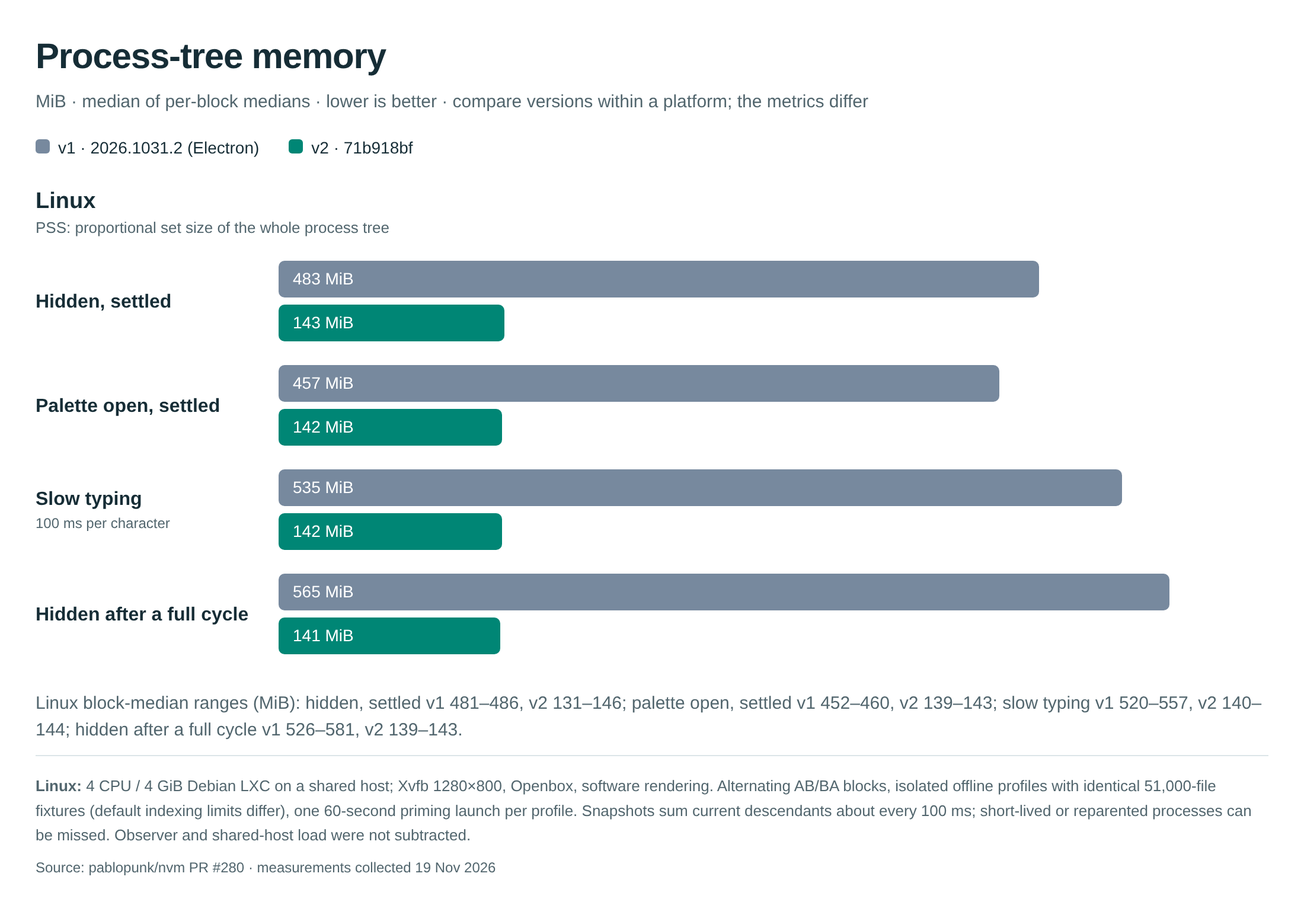
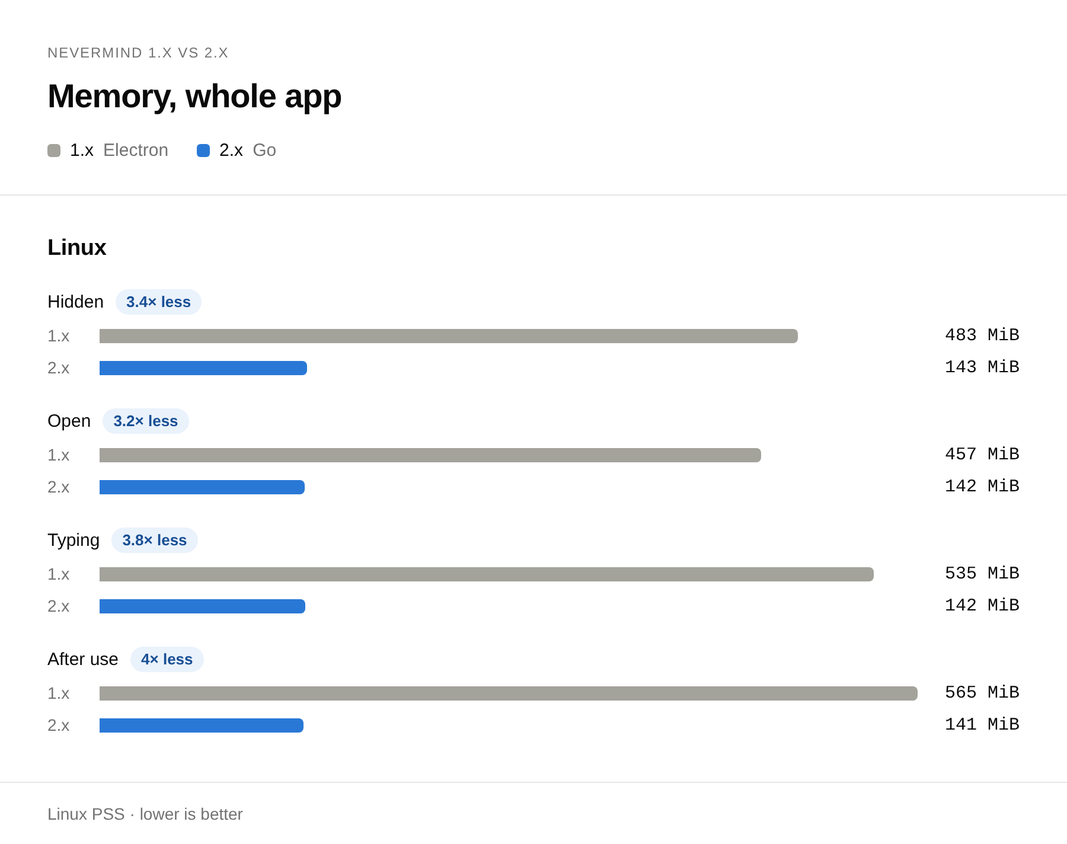
Draw the November 19 benchmarks as simple bar charts
Each action and memory phase is now a pair of thin bars, 1.x grey and
2.x blue, with one median value per bar and a "N× faster" or "N× less"
tag where 2.x clearly wins, laid out after mygo.run/benchmarks. Platforms
sit side by side with a scale per panel. Intervals, p95, attempt counts
and run caveats move out of the images into methodology.md and the HTML
hover text.

diff --git a/src/native/docs/comparison/benchmarks-2026-11-19/responsiveness.html b/src/native/docs/comparison/benchmarks-2026-11-19/responsiveness.html
@@ -1,1 +1,1 @@
-<!doctype html><html><head><meta charset="utf-8"><title>Interaction responsiveness</title><style>body{margin:0;background:#fff;color:#162d36;font:16px Arial,sans-serif}*{box-sizing:border-box}main{padding:30px}h1{font-size:30px;margin:0 0 8px;letter-spacing:-.6px}p{color:#52666e;line-height:1.5;margin:10px 0}.sub{font-size:15px}.legend{display:flex;gap:25px;margin:20px 0;font-size:14px}.dot{display:inline-block;width:12px;height:12px;border-radius:3px;margin-right:7px}.old{background:#77899e}.new{background:#008675}.cols{display:flex;gap:28px}.col{flex:1;min-width:0}.col h2{font-size:19px;margin:6px 0 4px}.col .metric{font-size:13px;color:#52666e;margin-bottom:6px}.row{display:grid;grid-template-columns:190px 1fr;gap:15px;margin:20px 0;align-items:center}.label{font-weight:bold;font-size:16px}.bar{height:31px;border-radius:5px;line-height:31px;color:white;padding-left:12px;min-width:115px;font-size:14px;white-space:nowrap}.bar.new{margin-top:6px}.foot{font-size:13px;line-height:1.6;border-top:1px solid #dce5e8;padding-top:15px}.range{color:#52666e;font-size:12px;font-weight:normal;display:block;margin-top:5px}.source{font-size:12px;color:#52666e}.timing{padding:16px 0;border-top:1px solid #dce5e8}.timing h2{font-size:19px;margin:0 0 12px}.pair{display:flex;gap:18px}.plat{flex:1;min-width:0}.plat h3{font-size:13px;color:#52666e;margin:0 0 8px;text-transform:uppercase;letter-spacing:.6px}.boxes{display:flex;gap:12px}.box{flex:1;border-radius:10px;background:#f1f5f6;padding:15px}.num{font-size:27px;font-weight:bold;margin:6px 0}.bounds{font-size:13px;color:#52666e}.oldtext{color:#61758c}.newtext{color:#008675}.na{font-size:15px;color:#52666e;margin:12px 0}</style></head><body><main><h1>Interaction responsiveness</h1><p class="sub">Measured attempts per version: Linux 30 across 10 alternating process blocks</p><div class="legend"><span><i class="dot old"></i>v1 · 2026.1031.2 (Electron)</span><span><i class="dot new"></i>v2 · 71b918bf</span></div><section class="timing"><h2>Type “settings” → stable result list</h2><div class="pair"><div class="plat"><div class="boxes"><div class="box"><b>v1</b><div class="num oldtext">90–102 ms</div><div class="bounds">median interval · p95 ≤112 ms<br>30/30 attempts succeeded</div></div><div class="box"><b>v2</b><div class="num newtext">20–32 ms</div><div class="bounds">median interval · p95 ≤32 ms<br>30/30 attempts succeeded</div></div></div></div></div></section><section class="timing"><h2>Clear query → stable root list</h2><div class="pair"><div class="plat"><div class="boxes"><div class="box"><b>v1</b><div class="num oldtext">80–92 ms</div><div class="bounds">median interval · p95 ≤104 ms<br>30/30 attempts succeeded</div></div><div class="box"><b>v2</b><div class="num newtext">50–62 ms</div><div class="bounds">median interval · p95 ≤62 ms<br>30/30 attempts succeeded</div></div></div></div></div></section><section class="timing"><h2>Down arrow → next row selected</h2><div class="pair"><div class="plat"><div class="boxes"><div class="box"><b>v1</b><div class="num oldtext">0–12 ms</div><div class="bounds">median interval · p95 ≤22 ms<br>30/30 attempts succeeded</div></div><div class="box"><b>v2</b><div class="num newtext">0–12 ms</div><div class="bounds">median interval · p95 ≤22 ms<br>30/30 attempts succeeded</div></div></div></div></div></section><section class="timing"><h2>Enter on Settings → Settings view</h2><div class="pair"><div class="plat"><div class="boxes"><div class="box"><b>v1</b><div class="num oldtext">10–22 ms</div><div class="bounds">median interval · p95 ≤22 ms<br>30/30 attempts succeeded</div></div><div class="box"><b>v2</b><div class="num newtext">0–12 ms</div><div class="bounds">median interval · p95 ≤12 ms<br>30/30 attempts succeeded</div></div></div></div></div></section><section class="timing"><h2>Escape → back out of Settings</h2><div class="pair"><div class="plat"><div class="boxes"><div class="box"><b>v1</b><div class="num oldtext">0–12 ms</div><div class="bounds">median interval · p95 ≤22 ms<br>30/30 attempts succeeded</div></div><div class="box"><b>v2</b><div class="num newtext">0–12 ms</div><div class="bounds">median interval · p95 ≤32 ms<br>30/30 attempts succeeded</div></div></div></div></div></section><section class="timing"><h2>Calculator Enter → result on the clipboard</h2><div class="pair"><div class="plat"><div class="boxes"><div class="box"><b>v1</b><div class="num oldtext">68 ms</div><div class="bounds">median · p95 81 ms<br>30/30 attempts succeeded</div></div><div class="box"><b>v2</b><div class="num newtext">16 ms</div><div class="bounds">median · p95 17 ms<br>30/30 attempts succeeded</div></div></div></div></div></section><p class="foot">Visual values are capture intervals: the lower bound is the start of the last capture before the final stable state, the upper bound the end of its first capture, both measured from key dispatch start. The end of an action is the first frame after the last list change, held at least 1 s. They bound observed content, not exact application execution or display scanout. Calculator: expression already entered, unique clipboard sentinel verified before Enter, result varies per attempt; includes key injection and clipboard polling. p95 is nearest rank. No observer overhead was subtracted.<br><b>Linux:</b> 4 CPU / 4 GiB Debian LXC on a shared host; Xvfb 1280×800, Openbox, software rendering. Alternating AB/BA blocks, isolated offline profiles with identical 51,000-file fixtures (default indexing limits differ), one 60-second priming launch per profile. Snapshots sum current descendants about every 100 ms; short-lived or reparented processes can be missed. Observer and shared-host load were not subtracted.</p><div class="source">Source: pablopunk/nvm PR #280 · measurements collected 19 Nov 2026</div></main></body></html>
+<!doctype html><html><head><meta charset="utf-8"><title>Key press to result</title><style>:root{--fg:#0a0a0a;--muted:#737373;--border:#e5e5e5;--v1:#a3a29b;--v2:#2a78d6;--tag-bg:#eaf2fc;--tag-fg:#184f95;--sans:"Geist","Geist Variable",Inter,-apple-system,"Helvetica Neue","Liberation Sans",Arial,sans-serif;--mono:"Geist Mono","SF Mono",Menlo,"Liberation Mono",monospace}*{box-sizing:border-box}body{margin:0;background:#fff;color:var(--fg);font:16px/1.5 var(--sans);width:900px}header{padding:36px 40px 26px;border-bottom:1px solid var(--border)}.eyebrow{font-size:12px;letter-spacing:.08em;text-transform:uppercase;color:var(--muted);margin:0 0 10px}h1{font-size:28px;font-weight:650;letter-spacing:-.02em;line-height:1.2;margin:0}.legend{display:flex;gap:24px;margin:18px 0 0;padding:0;list-style:none;font-size:15px;font-weight:500}.legend li{display:flex;align-items:center;gap:8px}.legend small{color:var(--muted);font-size:15px;font-weight:400}.swatch{width:11px;height:11px;border-radius:3px}.panels{display:grid;gap:48px;padding:30px 40px 34px}h2{font-size:19px;font-weight:600;letter-spacing:-.01em;margin:0 0 4px}h2 span{color:var(--muted);font-weight:400}figure{margin:20px 0 0}figcaption{display:flex;align-items:center;gap:10px;font-size:15px;font-weight:500;margin-bottom:4px}.tag{font-size:13px;font-weight:600;color:var(--tag-fg);background:var(--tag-bg);border-radius:999px;padding:1px 9px}.row{display:grid;grid-template-columns:34px 1fr 76px;gap:10px;align-items:center;padding:3px 0}.who{font-size:14px;color:var(--muted)}.track{height:12px}.bar{display:block;height:100%;border-radius:0 4px 4px 0}.val{text-align:right;font:15px var(--mono);font-variant-numeric:tabular-nums}.val.na{color:var(--muted)}footer{border-top:1px solid var(--border);padding:16px 40px 22px;font-size:14px;color:var(--muted)}</style></head><body><header><p class="eyebrow">Nevermind 1.x vs 2.x</p><h1>Key press to result</h1><ul class="legend"><li><span class="swatch" style="background:var(--v1)"></span>1.x <small>Electron</small></li><li><span class="swatch" style="background:var(--v2)"></span>2.x <small>Go</small></li></ul></header><main class="panels" style="grid-template-columns:repeat(1,minmax(0,1fr))"><section><h2>Linux</h2><figure><figcaption>Search<span class="tag">3.7× faster</span></figcaption><div class="row" title="1.x · median 90–102 ms · p95 112 ms · 30 attempts"><span class="who">1.x</span><span class="track"><span class="bar" style="width:max(100.00%,3px);background:var(--v1)"></span></span><span class="val">96 ms</span></div><div class="row" title="2.x · median 20–32 ms · p95 32 ms · 30 attempts"><span class="who">2.x</span><span class="track"><span class="bar" style="width:max(26.96%,3px);background:var(--v2)"></span></span><span class="val">26 ms</span></div></figure><figure><figcaption>Clear<span class="tag">1.5× faster</span></figcaption><div class="row" title="1.x · median 80–92 ms · p95 104 ms · 30 attempts"><span class="who">1.x</span><span class="track"><span class="bar" style="width:max(89.80%,3px);background:var(--v1)"></span></span><span class="val">86 ms</span></div><div class="row" title="2.x · median 50–62 ms · p95 62 ms · 30 attempts"><span class="who">2.x</span><span class="track"><span class="bar" style="width:max(58.30%,3px);background:var(--v2)"></span></span><span class="val">56 ms</span></div></figure><figure><figcaption>Row down</figcaption><div class="row" title="1.x · median 0–12 ms · p95 22 ms · 30 attempts"><span class="who">1.x</span><span class="track"><span class="bar" style="width:max(6.07%,3px);background:var(--v1)"></span></span><span class="val">6 ms</span></div><div class="row" title="2.x · median 0–12 ms · p95 22 ms · 30 attempts"><span class="who">2.x</span><span class="track"><span class="bar" style="width:max(6.14%,3px);background:var(--v2)"></span></span><span class="val">6 ms</span></div></figure><figure><figcaption>Open Settings</figcaption><div class="row" title="1.x · median 10–22 ms · p95 22 ms · 30 attempts"><span class="who">1.x</span><span class="track"><span class="bar" style="width:max(16.54%,3px);background:var(--v1)"></span></span><span class="val">16 ms</span></div><div class="row" title="2.x · median 0–12 ms · p95 12 ms · 30 attempts"><span class="who">2.x</span><span class="track"><span class="bar" style="width:max(6.14%,3px);background:var(--v2)"></span></span><span class="val">6 ms</span></div></figure><figure><figcaption>Leave Settings</figcaption><div class="row" title="1.x · median 0–12 ms · p95 22 ms · 30 attempts"><span class="who">1.x</span><span class="track"><span class="bar" style="width:max(6.32%,3px);background:var(--v1)"></span></span><span class="val">6 ms</span></div><div class="row" title="2.x · median 0–12 ms · p95 32 ms · 30 attempts"><span class="who">2.x</span><span class="track"><span class="bar" style="width:max(6.11%,3px);background:var(--v2)"></span></span><span class="val">6 ms</span></div></figure><figure><figcaption>Calculator<span class="tag">4.2× faster</span></figcaption><div class="row" title="1.x · median 68 ms · p95 81 ms · 30 attempts"><span class="who">1.x</span><span class="track"><span class="bar" style="width:max(70.55%,3px);background:var(--v1)"></span></span><span class="val">68 ms</span></div><div class="row" title="2.x · median 16 ms · p95 17 ms · 30 attempts"><span class="who">2.x</span><span class="track"><span class="bar" style="width:max(16.83%,3px);background:var(--v2)"></span></span><span class="val">16 ms</span></div></figure></section></main><footer>Medians · screen timings use the midpoint of the median capture interval · lower is better</footer></body></html>

diff --git a/src/native/docs/comparison/benchmarks-2026-11-19/memory.html b/src/native/docs/comparison/benchmarks-2026-11-19/memory.html
@@ -1,1 +1,1 @@
-<!doctype html><html><head><meta charset="utf-8"><title>Process-tree memory</title><style>body{margin:0;background:#fff;color:#162d36;font:16px Arial,sans-serif}*{box-sizing:border-box}main{padding:30px}h1{font-size:30px;margin:0 0 8px;letter-spacing:-.6px}p{color:#52666e;line-height:1.5;margin:10px 0}.sub{font-size:15px}.legend{display:flex;gap:25px;margin:20px 0;font-size:14px}.dot{display:inline-block;width:12px;height:12px;border-radius:3px;margin-right:7px}.old{background:#77899e}.new{background:#008675}.cols{display:flex;gap:28px}.col{flex:1;min-width:0}.col h2{font-size:19px;margin:6px 0 4px}.col .metric{font-size:13px;color:#52666e;margin-bottom:6px}.row{display:grid;grid-template-columns:190px 1fr;gap:15px;margin:20px 0;align-items:center}.label{font-weight:bold;font-size:16px}.bar{height:31px;border-radius:5px;line-height:31px;color:white;padding-left:12px;min-width:115px;font-size:14px;white-space:nowrap}.bar.new{margin-top:6px}.foot{font-size:13px;line-height:1.6;border-top:1px solid #dce5e8;padding-top:15px}.range{color:#52666e;font-size:12px;font-weight:normal;display:block;margin-top:5px}.source{font-size:12px;color:#52666e}.timing{padding:16px 0;border-top:1px solid #dce5e8}.timing h2{font-size:19px;margin:0 0 12px}.pair{display:flex;gap:18px}.plat{flex:1;min-width:0}.plat h3{font-size:13px;color:#52666e;margin:0 0 8px;text-transform:uppercase;letter-spacing:.6px}.boxes{display:flex;gap:12px}.box{flex:1;border-radius:10px;background:#f1f5f6;padding:15px}.num{font-size:27px;font-weight:bold;margin:6px 0}.bounds{font-size:13px;color:#52666e}.oldtext{color:#61758c}.newtext{color:#008675}.na{font-size:15px;color:#52666e;margin:12px 0}</style></head><body><main><h1>Process-tree memory</h1><p class="sub">MiB · median of per-block medians · lower is better · compare versions within a platform; the metrics differ</p><div class="legend"><span><i class="dot old"></i>v1 · 2026.1031.2 (Electron)</span><span><i class="dot new"></i>v2 · 71b918bf</span></div><div class="cols"><div class="col"><h2>Linux</h2><div class="metric">PSS: proportional set size of the whole process tree</div><div class="row"><div class="label">Hidden, settled</div><div><div class="bar old" style="width:76.8%">483 MiB</div><div class="bar new" style="width:22.8%">143 MiB</div></div></div><div class="row"><div class="label">Palette open, settled</div><div><div class="bar old" style="width:72.8%">457 MiB</div><div class="bar new" style="width:22.6%">142 MiB</div></div></div><div class="row"><div class="label">Slow typing<span class="range">100 ms per character</span></div><div><div class="bar old" style="width:85.2%">535 MiB</div><div class="bar new" style="width:22.6%">142 MiB</div></div></div><div class="row"><div class="label">Hidden after a full cycle</div><div><div class="bar old" style="width:90.0%">565 MiB</div><div class="bar new" style="width:22.4%">141 MiB</div></div></div></div></div><p class="sub">Linux block-median ranges (MiB): hidden, settled v1 481–486, v2 131–146; palette open, settled v1 452–460, v2 139–143; slow typing v1 520–557, v2 140–144; hidden after a full cycle v1 526–581, v2 139–143.</p><p class="foot"><b>Linux:</b> 4 CPU / 4 GiB Debian LXC on a shared host; Xvfb 1280×800, Openbox, software rendering. Alternating AB/BA blocks, isolated offline profiles with identical 51,000-file fixtures (default indexing limits differ), one 60-second priming launch per profile. Snapshots sum current descendants about every 100 ms; short-lived or reparented processes can be missed. Observer and shared-host load were not subtracted.</p><div class="source">Source: pablopunk/nvm PR #280 · measurements collected 19 Nov 2026</div></main></body></html>
+<!doctype html><html><head><meta charset="utf-8"><title>Memory, whole app</title><style>:root{--fg:#0a0a0a;--muted:#737373;--border:#e5e5e5;--v1:#a3a29b;--v2:#2a78d6;--tag-bg:#eaf2fc;--tag-fg:#184f95;--sans:"Geist","Geist Variable",Inter,-apple-system,"Helvetica Neue","Liberation Sans",Arial,sans-serif;--mono:"Geist Mono","SF Mono",Menlo,"Liberation Mono",monospace}*{box-sizing:border-box}body{margin:0;background:#fff;color:var(--fg);font:16px/1.5 var(--sans);width:900px}header{padding:36px 40px 26px;border-bottom:1px solid var(--border)}.eyebrow{font-size:12px;letter-spacing:.08em;text-transform:uppercase;color:var(--muted);margin:0 0 10px}h1{font-size:28px;font-weight:650;letter-spacing:-.02em;line-height:1.2;margin:0}.legend{display:flex;gap:24px;margin:18px 0 0;padding:0;list-style:none;font-size:15px;font-weight:500}.legend li{display:flex;align-items:center;gap:8px}.legend small{color:var(--muted);font-size:15px;font-weight:400}.swatch{width:11px;height:11px;border-radius:3px}.panels{display:grid;gap:48px;padding:30px 40px 34px}h2{font-size:19px;font-weight:600;letter-spacing:-.01em;margin:0 0 4px}h2 span{color:var(--muted);font-weight:400}figure{margin:20px 0 0}figcaption{display:flex;align-items:center;gap:10px;font-size:15px;font-weight:500;margin-bottom:4px}.tag{font-size:13px;font-weight:600;color:var(--tag-fg);background:var(--tag-bg);border-radius:999px;padding:1px 9px}.row{display:grid;grid-template-columns:34px 1fr 76px;gap:10px;align-items:center;padding:3px 0}.who{font-size:14px;color:var(--muted)}.track{height:12px}.bar{display:block;height:100%;border-radius:0 4px 4px 0}.val{text-align:right;font:15px var(--mono);font-variant-numeric:tabular-nums}.val.na{color:var(--muted)}footer{border-top:1px solid var(--border);padding:16px 40px 22px;font-size:14px;color:var(--muted)}</style></head><body><header><p class="eyebrow">Nevermind 1.x vs 2.x</p><h1>Memory, whole app</h1><ul class="legend"><li><span class="swatch" style="background:var(--v1)"></span>1.x <small>Electron</small></li><li><span class="swatch" style="background:var(--v2)"></span>2.x <small>Go</small></li></ul></header><main class="panels" style="grid-template-columns:repeat(1,minmax(0,1fr))"><section><h2>Linux</h2><figure><figcaption>Hidden<span class="tag">3.4× less</span></figcaption><div class="row" title="1.x · block medians 481–486 MiB · 10 blocks"><span class="who">1.x</span><span class="track"><span class="bar" style="width:max(85.35%,3px);background:var(--v1)"></span></span><span class="val">483 MiB</span></div><div class="row" title="2.x · block medians 131–146 MiB · 10 blocks"><span class="who">2.x</span><span class="track"><span class="bar" style="width:max(25.36%,3px);background:var(--v2)"></span></span><span class="val">143 MiB</span></div></figure><figure><figcaption>Open<span class="tag">3.2× less</span></figcaption><div class="row" title="1.x · block medians 452–460 MiB · 10 blocks"><span class="who">1.x</span><span class="track"><span class="bar" style="width:max(80.86%,3px);background:var(--v1)"></span></span><span class="val">457 MiB</span></div><div class="row" title="2.x · block medians 139–143 MiB · 10 blocks"><span class="who">2.x</span><span class="track"><span class="bar" style="width:max(25.09%,3px);background:var(--v2)"></span></span><span class="val">142 MiB</span></div></figure><figure><figcaption>Typing<span class="tag">3.8× less</span></figcaption><div class="row" title="1.x · block medians 520–557 MiB · 10 blocks"><span class="who">1.x</span><span class="track"><span class="bar" style="width:max(94.66%,3px);background:var(--v1)"></span></span><span class="val">535 MiB</span></div><div class="row" title="2.x · block medians 140–144 MiB · 10 blocks"><span class="who">2.x</span><span class="track"><span class="bar" style="width:max(25.16%,3px);background:var(--v2)"></span></span><span class="val">142 MiB</span></div></figure><figure><figcaption>After use<span class="tag">4× less</span></figcaption><div class="row" title="1.x · block medians 526–581 MiB · 10 blocks"><span class="who">1.x</span><span class="track"><span class="bar" style="width:max(100.00%,3px);background:var(--v1)"></span></span><span class="val">565 MiB</span></div><div class="row" title="2.x · block medians 139–143 MiB · 10 blocks"><span class="who">2.x</span><span class="track"><span class="bar" style="width:max(24.92%,3px);background:var(--v2)"></span></span><span class="val">141 MiB</span></div></figure></section></main><footer>Linux PSS · lower is better</footer></body></html>

diff --git a/src/native/docs/comparison/benchmarks-2026-11-19/charts.py b/src/native/docs/comparison/benchmarks-2026-11-19/charts.py
@@ -12,24 +12,31 @@ import argparse, csv, html, json, math, os, pathlib, shutil, statistics, struct,
 
 HERE = pathlib.Path(__file__).resolve().parent
 PLATFORMS = ('linux', 'macos')
-MEMORY_PHASES = [('hidden', 'Hidden, settled', None), ('open', 'Palette open, settled', None),
-                 ('slow_typing', 'Slow typing', '100 ms per character'), ('after_cycle', 'Hidden after a full cycle', None)]
-ENDPOINTS = [('search', 'Type “settings” → stable result list'), ('clear', 'Clear query → stable root list'),
-             ('row_down', 'Down arrow → next row selected'), ('settings_open', 'Enter on Settings → Settings view'),
-             ('settings_back', 'Escape → back out of Settings'), ('calculator', 'Calculator Enter → result on the clipboard')]
-CSS = ('body{margin:0;background:#fff;color:#162d36;font:16px Arial,sans-serif}*{box-sizing:border-box}main{padding:30px}'
-       'h1{font-size:30px;margin:0 0 8px;letter-spacing:-.6px}p{color:#52666e;line-height:1.5;margin:10px 0}.sub{font-size:15px}'
-       '.legend{display:flex;gap:25px;margin:20px 0;font-size:14px}.dot{display:inline-block;width:12px;height:12px;border-radius:3px;margin-right:7px}'
-       '.old{background:#77899e}.new{background:#008675}.cols{display:flex;gap:28px}.col{flex:1;min-width:0}'
-       '.col h2{font-size:19px;margin:6px 0 4px}.col .metric{font-size:13px;color:#52666e;margin-bottom:6px}'
-       '.row{display:grid;grid-template-columns:190px 1fr;gap:15px;margin:20px 0;align-items:center}.label{font-weight:bold;font-size:16px}'
-       '.bar{height:31px;border-radius:5px;line-height:31px;color:white;padding-left:12px;min-width:115px;font-size:14px;white-space:nowrap}'
-       '.bar.new{margin-top:6px}.foot{font-size:13px;line-height:1.6;border-top:1px solid #dce5e8;padding-top:15px}'
-       '.range{color:#52666e;font-size:12px;font-weight:normal;display:block;margin-top:5px}.source{font-size:12px;color:#52666e}'
-       '.timing{padding:16px 0;border-top:1px solid #dce5e8}.timing h2{font-size:19px;margin:0 0 12px}.pair{display:flex;gap:18px}'
-       '.plat{flex:1;min-width:0}.plat h3{font-size:13px;color:#52666e;margin:0 0 8px;text-transform:uppercase;letter-spacing:.6px}'
-       '.boxes{display:flex;gap:12px}.box{flex:1;border-radius:10px;background:#f1f5f6;padding:15px}.num{font-size:27px;font-weight:bold;margin:6px 0}'
-       '.bounds{font-size:13px;color:#52666e}.oldtext{color:#61758c}.newtext{color:#008675}.na{font-size:15px;color:#52666e;margin:12px 0}')
+# Each chart row: (key, short label). Timing rows are trials.jsonl endpoints; memory rows are memory.csv phases.
+ENDPOINTS = [('search', 'Search'), ('clear', 'Clear'), ('row_down', 'Row down'), ('settings_open', 'Open Settings'),
+             ('settings_back', 'Leave Settings'), ('calculator', 'Calculator')]
+MEMORY_PHASES = [('hidden', 'Hidden'), ('open', 'Open'), ('slow_typing', 'Typing'), ('after_cycle', 'After use')]
+VERSIONS = (('v1', '1.x', 'Electron'), ('v2', '2.x', 'Go'))
+# A "N× faster" tag needs both a clear ratio and, for timings, a gap of at least two 10 ms capture intervals.
+TAG_MIN_RATIO, TAG_MIN_GAP_MS = 1.5, 20
+CSS = (':root{--fg:#0a0a0a;--muted:#737373;--border:#e5e5e5;--v1:#a3a29b;--v2:#2a78d6;--tag-bg:#eaf2fc;--tag-fg:#184f95;'
+       '--sans:"Geist","Geist Variable",Inter,-apple-system,"Helvetica Neue","Liberation Sans",Arial,sans-serif;'
+       '--mono:"Geist Mono","SF Mono",Menlo,"Liberation Mono",monospace}'
+       '*{box-sizing:border-box}body{margin:0;background:#fff;color:var(--fg);font:16px/1.5 var(--sans);width:900px}'
+       'header{padding:36px 40px 26px;border-bottom:1px solid var(--border)}'
+       '.eyebrow{font-size:12px;letter-spacing:.08em;text-transform:uppercase;color:var(--muted);margin:0 0 10px}'
+       'h1{font-size:28px;font-weight:650;letter-spacing:-.02em;line-height:1.2;margin:0}'
+       '.legend{display:flex;gap:24px;margin:18px 0 0;padding:0;list-style:none;font-size:15px;font-weight:500}'
+       '.legend li{display:flex;align-items:center;gap:8px}.legend small{color:var(--muted);font-size:15px;font-weight:400}'
+       '.swatch{width:11px;height:11px;border-radius:3px}'
+       '.panels{display:grid;gap:48px;padding:30px 40px 34px}'
+       'h2{font-size:19px;font-weight:600;letter-spacing:-.01em;margin:0 0 4px}h2 span{color:var(--muted);font-weight:400}'
+       'figure{margin:20px 0 0}figcaption{display:flex;align-items:center;gap:10px;font-size:15px;font-weight:500;margin-bottom:4px}'
+       '.tag{font-size:13px;font-weight:600;color:var(--tag-fg);background:var(--tag-bg);border-radius:999px;padding:1px 9px}'
+       '.row{display:grid;grid-template-columns:34px 1fr 76px;gap:10px;align-items:center;padding:3px 0}'
+       '.who{font-size:14px;color:var(--muted)}.track{height:12px}.bar{display:block;height:100%;border-radius:0 4px 4px 0}'
+       '.val{text-align:right;font:15px var(--mono);font-variant-numeric:tabular-nums}.val.na{color:var(--muted)}'
+       'footer{border-top:1px solid var(--border);padding:16px 40px 22px;font-size:14px;color:var(--muted)}')
 
 
 def load(platform):
@@ -51,105 +58,78 @@ def nearest_rank(values, q):
 
 
 def timing(data, version, endpoint):
-    rel = [t for t in data['trials'] if t['version'] == version and t['endpoint'] == endpoint and not t['warmup']]
-    ok = [t for t in rel if t['success']]
+    """Median of the successful measured attempts; an interval endpoint is drawn at the midpoint of its median interval."""
+    ok = [t for t in data['trials'] if t['version'] == version and t['endpoint'] == endpoint and not t['warmup'] and t['success']]
     if not ok:
         return None
-    lo = [t['lower_ms'] for t in ok]; up = [t['upper_ms'] for t in ok]
-    return dict(attempts=len(rel), success=len(ok), lower=statistics.median(lo), upper=statistics.median(up),
-                p95_upper=nearest_rank(up, .95), point=all(t['lower_ms'] == t['upper_ms'] for t in ok))
+    lower = statistics.median(t['lower_ms'] for t in ok); upper = statistics.median(t['upper_ms'] for t in ok)
+    span = f'{lower:.0f} ms' if lower == upper else f'{lower:.0f}–{upper:.0f} ms'
+    return dict(value=(lower + upper) / 2, text=f'{(lower + upper) / 2:.0f} ms',
+                hover=f'median {span} · p95 {nearest_rank([t["upper_ms"] for t in ok], .95):.0f} ms · {len(ok)} attempts')
 
 
 def memory(data, version, phase):
+    """Median of the per-block medians."""
     vals = [float(r['value_mib']) for r in data['memory'] if r['version'] == version and r['phase'] == phase]
     if not vals:
         return None
-    return dict(median=statistics.median(vals), lo=min(vals), hi=max(vals), blocks=len(vals))
+    m = statistics.median(vals)
+    return dict(value=m, text=f'{m:.0f} MiB', hover=f'block medians {min(vals):.0f}–{max(vals):.0f} MiB · {len(vals)} blocks')
 
 
-def legend(datas):
-    v2 = sorted({d['run'].get('v2_label', 'v2') for d in datas})
-    v1 = sorted({d['run'].get('v1_label', 'v1') for d in datas})
-    return (f'<div class="legend"><span><i class="dot old"></i>{html.escape(" / ".join(v1))}</span>'
-            f'<span><i class="dot new"></i>{html.escape(" / ".join(v2))}</span></div>')
+def ratio_tag(old, new, word, min_gap):
+    if not old or not new or new['value'] <= 0 or old['value'] - new['value'] < min_gap:
+        return ''
+    ratio = old['value'] / new['value']
+    if ratio < TAG_MIN_RATIO:
+        return ''
+    return f'<span class="tag">{ratio:.1f}× {word}</span>'.replace('.0×', '×')
 
 
-def notes(datas):
-    parts = []
-    for d in datas:
-        r = d['run']
-        text = ' '.join(r.get('notes', []))
-        parts.append(f'<b>{html.escape(r.get("title", d["platform"]))}:</b> {html.escape(r.get("machine", ""))} {html.escape(text)}')
-    return '<br>'.join(parts)
+def bar_row(result, version, short, scale):
+    if not result:
+        return f'<div class="row"><span class="who">{short}</span><span class="track"></span><span class="val na">—</span></div>'
+    width = 100 * result['value'] / scale
+    return (f'<div class="row" title="{short} · {html.escape(result["hover"])}"><span class="who">{short}</span>'
+            f'<span class="track"><span class="bar" style="width:max({width:.2f}%,3px);background:var(--{version})"></span></span>'
+            f'<span class="val">{result["text"]}</span></div>')
 
 
-def source(datas):
-    dates = ', '.join(sorted({d['run'].get('collected', '') for d in datas if d['run'].get('collected')}))
-    return f'<div class="source">Source: pablopunk/nvm PR #280 · measurements collected {html.escape(dates)}</div>'
+def panel(data, rows, measure, word, min_gap):
+    results = {key: {v: measure(data, v, key) for v, _, _ in VERSIONS} for key, _ in rows}
+    scale = max((r['value'] for pair in results.values() for r in pair.values() if r), default=1) or 1
+    title = data['run'].get('title', data['platform'])
+    name, _, extra = title.partition(' (')
+    heading = f'{html.escape(name)}' + (f' <span>{html.escape(extra.rstrip(")"))}</span>' if extra else '')
+    figures = []
+    for key, label in rows:
+        pair = results[key]
+        tag = ratio_tag(pair['v1'], pair['v2'], word, min_gap)
+        bars = ''.join(bar_row(pair[v], v, short, scale) for v, short, _ in VERSIONS)
+        figures.append(f'<figure><figcaption>{label}{tag}</figcaption>{bars}</figure>')
+    return f'<section><h2>{heading}</h2>{"".join(figures)}</section>'
+
+
+def page(title, eyebrow, datas, rows, measure, word, min_gap, foot):
+    legend = ''.join(f'<li><span class="swatch" style="background:var(--{v})"></span>{short} <small>{kind}</small></li>' for v, short, kind in VERSIONS)
+    panels = ''.join(panel(d, rows, measure, word, min_gap) for d in datas)
+    body = (f'<header><p class="eyebrow">{eyebrow}</p><h1>{title}</h1><ul class="legend">{legend}</ul></header>'
+            f'<main class="panels" style="grid-template-columns:repeat({len(datas)},minmax(0,1fr))">{panels}</main><footer>{foot}</footer>')
+    return f'<!doctype html><html><head><meta charset="utf-8"><title>{title}</title><style>{CSS}</style></head><body>{body}</body></html>'
+
+
+EYEBROW = 'Nevermind 1.x vs 2.x'
 
 
 def memory_page(datas):
-    cols = []
-    for d in datas:
-        scale = max((m['median'] for v in ('v1', 'v2') for p, _, _ in MEMORY_PHASES if (m := memory(d, v, p))), default=1) / .9
-        rows = []
-        for phase, label, note in MEMORY_PHASES:
-            a, b = memory(d, 'v1', phase), memory(d, 'v2', phase)
-            sub = f'<span class="range">{note}</span>' if note else ''
-            if not a or not b:
-                rows.append(f'<div class="row"><div class="label">{label}{sub}</div><div class="na">not measured</div></div>'); continue
-            rows.append(f'<div class="row"><div class="label">{label}{sub}</div><div>'
-                        f'<div class="bar old" style="width:{100 * a["median"] / scale:.1f}%">{a["median"]:.0f} MiB</div>'
-                        f'<div class="bar new" style="width:{100 * b["median"] / scale:.1f}%">{b["median"]:.0f} MiB</div></div></div>')
-        r = d['run']
-        cols.append(f'<div class="col"><h2>{html.escape(r.get("title", d["platform"]))}</h2>'
-                    f'<div class="metric">{html.escape(r.get("memory_metric", ""))}</div>{"".join(rows)}</div>')
-    ranges = []
-    for d in datas:
-        bits = []
-        for phase, label, _ in MEMORY_PHASES:
-            a, b = memory(d, 'v1', phase), memory(d, 'v2', phase)
-            if a and b:
-                bits.append(f'{label.lower()} v1 {a["lo"]:.0f}–{a["hi"]:.0f}, v2 {b["lo"]:.0f}–{b["hi"]:.0f}')
-        ranges.append(f'{d["run"].get("title", d["platform"])} block-median ranges (MiB): ' + '; '.join(bits) + '.')
-    body = (f'<h1>Process-tree memory</h1><p class="sub">MiB · median of per-block medians · lower is better · compare versions within a platform; the metrics differ</p>'
-            f'{legend(datas)}<div class="cols">{"".join(cols)}</div><p class="sub">{html.escape(" ".join(ranges))}</p>'
-            f'<p class="foot">{notes(datas)}</p>{source(datas)}')
-    return page('Process-tree memory', body)
-
-
-def timing_box(t, cls, version):
-    if not t:
-        return f'<div class="box"><b>{version}</b><div class="na">not measured</div></div>'
-    if t['point']:
-        num = f'{t["upper"]:.0f} ms'; sub = f'median · p95 {t["p95_upper"]:.0f} ms'
-    else:
-        num = f'{t["lower"]:.0f}–{t["upper"]:.0f} ms'; sub = f'median interval · p95 ≤{t["p95_upper"]:.0f} ms'
-    return f'<div class="box"><b>{version}</b><div class="num {cls}">{num}</div><div class="bounds">{sub}<br>{t["success"]}/{t["attempts"]} attempts succeeded</div></div>'
+    metrics = {'linux': 'Linux PSS', 'macos': 'macOS physical footprint'}
+    foot = ' · '.join([metrics[d['platform']] for d in datas] + ['lower is better'])
+    return page('Memory, whole app', EYEBROW, datas, MEMORY_PHASES, memory, 'less', 0, foot)
 
 
 def responsiveness_page(datas):
-    sections = []
-    for endpoint, label in ENDPOINTS:
-        plats = []
-        for d in datas:
-            a, b = timing(d, 'v1', endpoint), timing(d, 'v2', endpoint)
-            head = f'<h3>{html.escape(d["run"].get("title", d["platform"]))}</h3>' if len(datas) > 1 else ''
-            boxes = f'<div class="boxes">{timing_box(a, "oldtext", "v1")}{timing_box(b, "newtext", "v2")}</div>'
-            plats.append(f'<div class="plat">{head}{boxes}</div>')
-        sections.append(f'<section class="timing"><h2>{label}</h2><div class="pair">{"".join(plats)}</div></section>')
-    counts = ', '.join(f'{d["run"].get("title", d["platform"])} {d["run"].get("attempts_note", "")}'.strip() for d in datas)
-    body = (f'<h1>Interaction responsiveness</h1><p class="sub">Measured attempts per version: {html.escape(counts)}</p>{legend(datas)}{"".join(sections)}'
-            '<p class="foot">Visual values are capture intervals: the lower bound is the start of the last capture before the final stable state, the upper bound '
-            'the end of its first capture, both measured from key dispatch start. The end of an action is the first frame after the last list change, held at '
-            'least 1 s. They bound observed content, not exact application execution or display scanout. Calculator: expression already entered, unique '
-            'clipboard sentinel verified before Enter, result varies per attempt; includes key injection and clipboard polling. p95 is nearest rank. '
-            f'No observer overhead was subtracted.<br>{notes(datas)}</p>{source(datas)}')
-    return page('Interaction responsiveness', body)
-
-
-def page(title, body):
-    return f'<!doctype html><html><head><meta charset="utf-8"><title>{title}</title><style>{CSS}</style></head><body><main>{body}</main></body></html>'
+    foot = 'Medians · screen timings use the midpoint of the median capture interval · lower is better'
+    return page('Key press to result', EYEBROW, datas, ENDPOINTS, timing, 'faster', TAG_MIN_GAP_MS, foot)
 
 
 def png_rows(path):
@@ -192,7 +172,7 @@ def render(html_path, png_path):
     with tempfile.TemporaryDirectory() as tmp:
         shot = pathlib.Path(tmp) / 'shot.png'
         subprocess.run([chromium, '--headless', '--disable-gpu', '--hide-scrollbars', f'--user-data-dir={tmp}/profile', '--force-device-scale-factor=2',
-                        '--window-size=1100,3000', f'--screenshot={shot}', html_path.as_uri()], check=True, capture_output=True)
+                        '--window-size=900,2000', f'--screenshot={shot}', html_path.as_uri()], check=True, capture_output=True)
         w, rows = png_rows(shot)
     white = bytes([255]) * len(rows[0]); last = max(i for i, r in enumerate(rows) if r != white)
     write_png(png_path, w, rows[:last + 1 + 40])

diff --git a/src/native/docs/comparison/benchmarks-2026-11-19/methodology.md b/src/native/docs/comparison/benchmarks-2026-11-19/methodology.md
@@ -10,6 +10,18 @@ python3 src/native/docs/comparison/benchmarks-2026-11-19/charts.py
 
 To add macOS, copy its `trials.jsonl`, `memory.csv` and `run.json` into `data/macos/` and run the same command. It needs Python 3.9+ and Chromium (`CHROMIUM=/path/to/chrome` overrides the binary; `--no-png` writes only the HTML sources).
 
+## Reading the charts
+
+The images carry only the comparison; every caveat lives in this document.
+
+- Each bar is one median. Lower is better on both charts. Each platform panel has its own scale, shared by all of its rows.
+- A timing bar is the midpoint of the median capture interval: the median lower bound and the median upper bound, averaged. The calculator is a point measurement, so its bar is the median itself. Medians use successful measured attempts only; warmups and failures are left out. The intervals, p95 upper bounds and success counts are in the tables below and in each bar's hover text in the HTML source.
+- A memory bar is the median of the ten per-block medians. The block range is in the tables below and in the hover text.
+- An "N× faster" tag appears when 1.x takes at least 1.5 times as long as 2.x and at least 20 ms longer (two capture intervals). An "N× less" tag appears when 1.x uses at least 1.5 times as much memory. No tag means the gap is too small to call, not that 2.x lost.
+- The 0–12 ms results (one capture interval) show as 6 ms; they mean the change was visible in the first capture after dispatch.
+- Linux memory is PSS and macOS memory is physical footprint, on different machines. Compare 1.x with 2.x within one panel, never Linux with macOS.
+- Each platform's machine, capture method and run-specific limits are described in its section below. A platform added through `data/` needs its own section here; its `run.json` notes are not drawn in the images.
+
 ## Input format
 
 Put each platform's results in `data/<platform>/`, where the platform is `linux` or `macos`. The folder holds three files.
@@ -42,11 +54,11 @@ Extra fields are allowed and ignored. For a point measurement, such as the calcu
 | `settings_back` | Escape in the Settings view | the same rule, showing where each version returns |
 | `calculator` | Enter on an entered calculator expression | the clipboard first holds the expected result; a unique sentinel was read back before Enter |
 
-A platform may omit any endpoint; the chart then shows "not measured" for it. Visual bounds are capture intervals: `lower_ms` is the start of the last capture before the final stable state, or dispatch start if that is later; `upper_ms` is the end of the first capture showing it.
+A platform may omit any endpoint; the chart then shows a dash for it. Visual bounds are capture intervals: `lower_ms` is the start of the last capture before the final stable state, or dispatch start if that is later; `upper_ms` is the end of the first capture showing it.
 
 ### `memory.csv`
 
-A header row, then one row per version, block and phase. Each value is the median of the complete process-tree snapshots accepted in that block and phase. The chart reports the median of the block values and their range.
+A header row, then one row per version, block and phase. Each value is the median of the complete process-tree snapshots accepted in that block and phase. The chart reports the median of the block values; the range is in the hover text.
 
 | Column | Meaning |
 | --- | --- |
@@ -69,7 +81,7 @@ Extra columns, such as `rss_mib`, are allowed and ignored.
 
 ### `run.json`
 
-Captions for the charts.
+Facts about the run. The charts draw only `title`, as the panel heading (text in parentheses is shown muted); the rest records the run alongside the data and belongs in the platform's section below.
 
 ```json
 {
